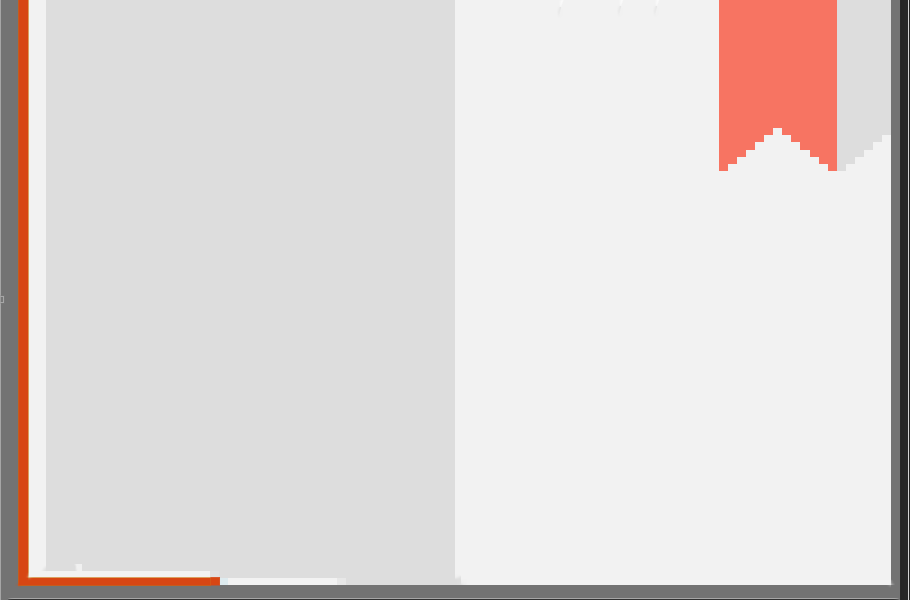
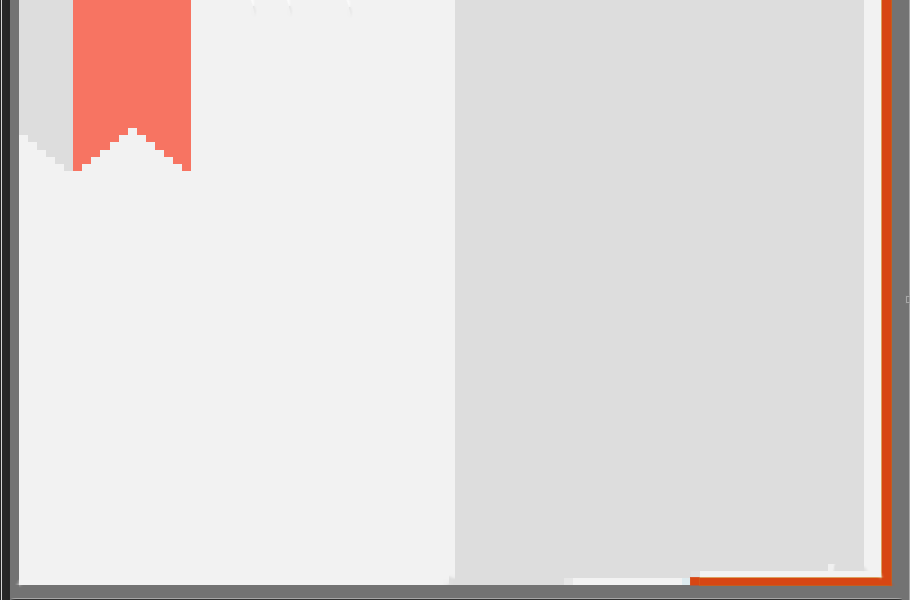
Added JournalScreen stage & background image

diff --git a/game/src/main/java/org/teamfarce/mirch/Screens/JournalScreen.java b/game/src/main/java/org/teamfarce/mirch/Screens/JournalScreen.java
@@ -3,8 +3,19 @@ package org.teamfarce.mirch.Screens;
 import com.badlogic.gdx.Gdx;
 import com.badlogic.gdx.InputMultiplexer;
 import com.badlogic.gdx.graphics.GL20;
+import com.badlogic.gdx.graphics.Texture;
+import com.badlogic.gdx.graphics.g2d.Sprite;
+import com.badlogic.gdx.graphics.g2d.TextureRegion;
+import com.badlogic.gdx.scenes.scene2d.Actor;
 import com.badlogic.gdx.scenes.scene2d.Stage;
 import com.badlogic.gdx.scenes.scene2d.ui.Skin;
+import com.badlogic.gdx.scenes.scene2d.ui.Table;
+import com.badlogic.gdx.scenes.scene2d.ui.TextButton;
+import com.badlogic.gdx.scenes.scene2d.utils.ChangeListener;
+import com.badlogic.gdx.scenes.scene2d.utils.Drawable;
+import com.badlogic.gdx.scenes.scene2d.utils.TextureRegionDrawable;
+import com.badlogic.gdx.utils.viewport.FitViewport;
+import org.teamfarce.mirch.GameState;
 import org.teamfarce.mirch.MIRCH;
 import org.teamfarce.mirch.Screens.Elements.StatusBar;
 
@@ -13,19 +24,40 @@ import org.teamfarce.mirch.Screens.Elements.StatusBar;
  */
 public class JournalScreen extends AbstractScreen
 {
-    //TODO: This stuff is for testing purposes
+    private MIRCH game;
+
+    public Stage journalStage;
     private StatusBar statusBar;
 
     public JournalScreen(MIRCH game, Skin uiSkin)
     {
         super(game);
+        this.game = game;
+
+        initStage();
+
         statusBar = new StatusBar(game.gameSnapshot, uiSkin);
+    }
+
+    private void initStage() {
+        journalStage = new Stage(new FitViewport(Gdx.graphics.getWidth(), Gdx.graphics.getHeight()));
+
+        Table table = new Table();
+        table.setBounds(80, 20, Gdx.graphics.getWidth() - 160, Gdx.graphics.getHeight() - 20);
+
+        Texture journalBackground = new Texture(Gdx.files.internal("Open_journal.png"));
+        TextureRegion tr = new TextureRegion(journalBackground);
+        TextureRegionDrawable trd = new TextureRegionDrawable(tr);
+        table.setBackground(trd);
+
+        journalStage.addActor(table);
     }
 
     @Override
     public void show()
     {
         InputMultiplexer multiplexer = new InputMultiplexer();
+        multiplexer.addProcessor(journalStage);
         multiplexer.addProcessor(statusBar.stage);
         Gdx.input.setInputProcessor(multiplexer);
     }
@@ -33,12 +65,15 @@ public class JournalScreen extends AbstractScreen
     @Override
     public void render(float delta)
     {
+        journalStage.act();
+        journalStage.draw();
         statusBar.render();
     }
 
     @Override
     public void resize(int width, int height)
     {
+        journalStage.getViewport().update(width, height, true);
         statusBar.resize(width, height);
     }
 
@@ -63,6 +98,7 @@ public class JournalScreen extends AbstractScreen
     @Override
     public void dispose()
     {
+        journalStage.dispose();
         statusBar.dispose();
     }
 }
